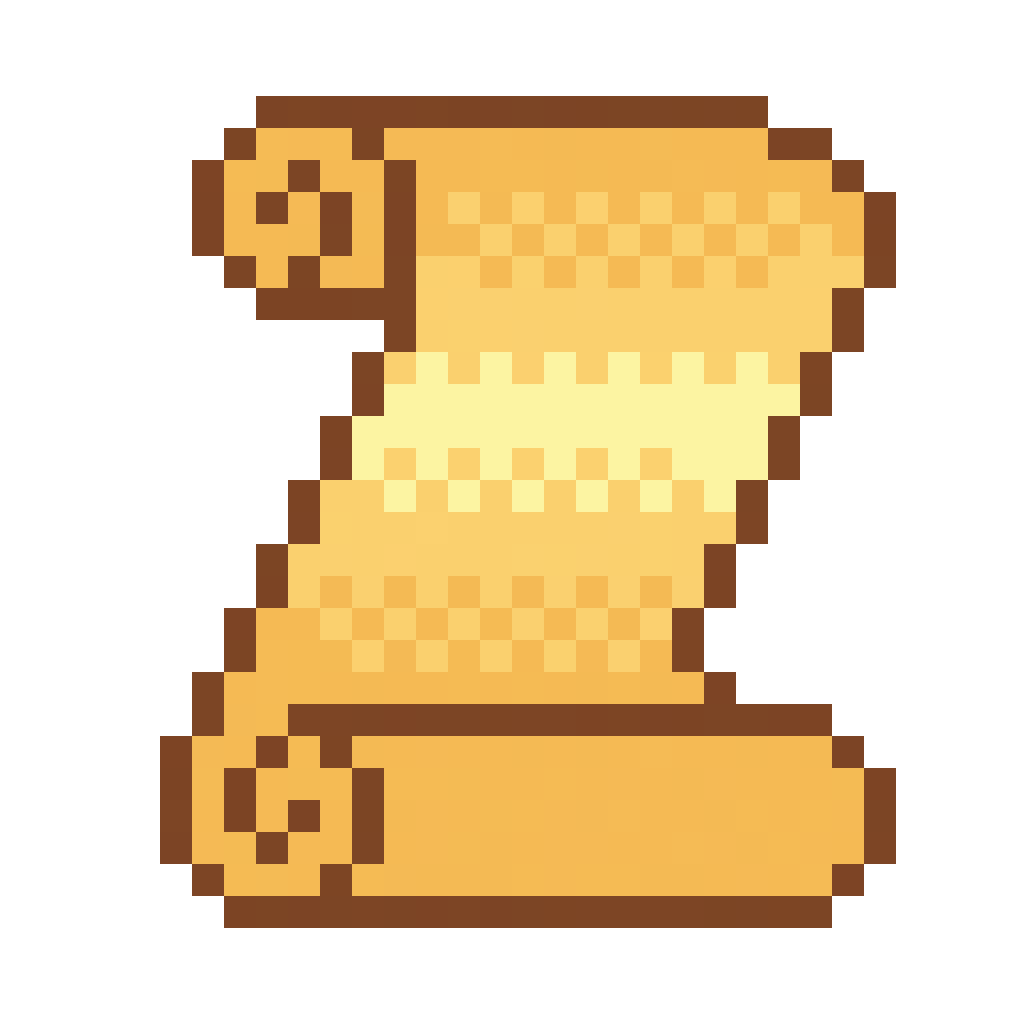
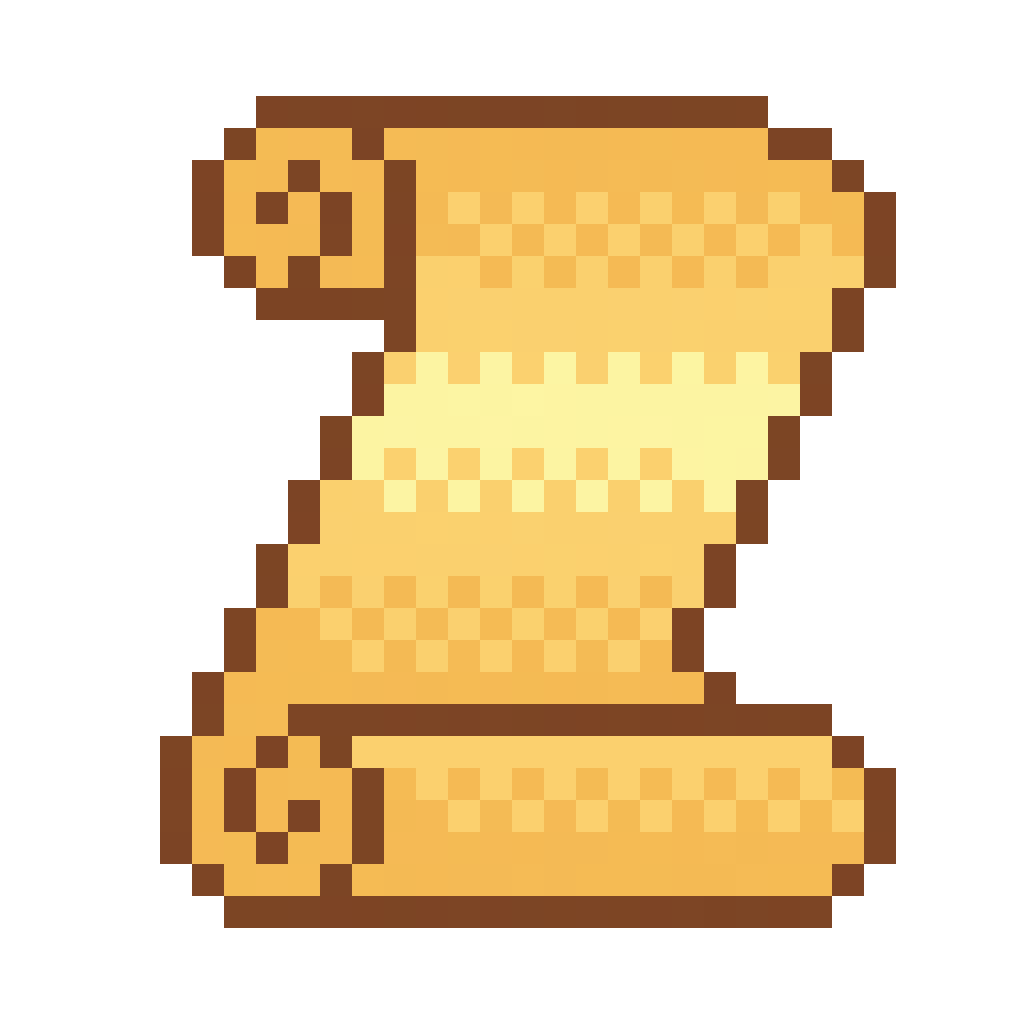
wiki

diff --git a/functions.js b/functions.js
@@ -19,7 +19,7 @@ class Characters{
                 document.getElementById("table").rows[this.y].cells[this.x].innerHTML = '<img alt="archer" src="images/archer.png" onclick="selectUnit('+this.name+')"/>';
                 break;
             case 3:
-                document.getElementById("table").rows[this.y].cells[this.x].innerHTML = '<img alt="knight" src="images/knight.png" onclick="selectUnit('+this.name+')"/>';
+                document.getElementById("table").rows[this.y].cells[this.x].innerHTML = '<img alt="knight" src="images/spearman.png" onclick="selectUnit('+this.name+')"/>';
                 break;
             case 4:
                 document.getElementById("table").rows[this.y].cells[this.x].innerHTML = '<img alt="enemy" src="images/enemyKnight.png"/>';
@@ -89,7 +89,10 @@ function cancelMovements(){
 }
 
 function right(pers){
-    if (pers.x < (X-1) && CharactersPosition[(pers.y*X) + pers.x + 1] == 0){
+    if (pers.x < (X-1) && (CharactersPosition[(pers.y*X) + pers.x + 1] == 0 || CharactersPosition[(pers.y*X) + pers.x + 1] == 8)){
+        var decrease = 2;
+        if(CharactersPosition[(pers.y*X) + pers.x + 1] == 8){ decrease = 4; }
+
         CharactersPosition[(pers.y*X) + pers.x + 1] = CharactersPosition[(pers.y*X) + pers.x];
         CharactersPosition[(pers.y*X) + pers.x] = 0;
 
@@ -100,14 +103,17 @@ function right(pers){
         document.getElementById("table").rows[pers.y].cells[pers.x].classList.add("selected");
         pers.display(pers);
 
-        stamina -= 2;
+        stamina -= decrease;
         document.getElementById('stamina').innerHTML = 'Stamina : <strong>' + stamina + '</strong>';
         loseStamina();
     }
 }
 
 function left(pers){
-    if (pers.x > 0 && CharactersPosition[(pers.y*X) + pers.x - 1] == 0){
+    if (pers.x > 0 && (CharactersPosition[(pers.y*X) + pers.x - 1] == 0 || CharactersPosition[(pers.y*X) + pers.x - 1] == 8)){
+        var decrease = 2;
+        if(CharactersPosition[(pers.y*X) + pers.x - 1] == 8){ decrease = 4; }
+
         CharactersPosition[(pers.y*X) + pers.x - 1] = CharactersPosition[(pers.y*X) + pers.x];
         CharactersPosition[(pers.y*X) + pers.x] = 0;
 
@@ -118,14 +124,17 @@ function left(pers){
         document.getElementById("table").rows[pers.y].cells[pers.x].classList.add("selected");
         pers.display(pers);
 
-        stamina -= 2;
+        stamina -= decrease;
         document.getElementById('stamina').innerHTML = 'Stamina : <strong>' + stamina + '</strong>';
         loseStamina();
     }
 } 
 
 function up(pers){
-    if (pers.y > 0 && CharactersPosition[(pers.y*X) + pers.x - X] == 0){
+    if (pers.y > 0 && (CharactersPosition[(pers.y*X) + pers.x - X] == 0 || CharactersPosition[(pers.y*X) + pers.x - X] == 8)){
+        var decrease = 2;
+        if(CharactersPosition[(pers.y*X) + pers.x - X] == 8){ decrease = 4; }
+
         CharactersPosition[(pers.y*X) + pers.x - X] = CharactersPosition[(pers.y*X) + pers.x];
         CharactersPosition[(pers.y*X) + pers.x] = 0;
 
@@ -136,14 +145,17 @@ function up(pers){
         document.getElementById("table").rows[pers.y].cells[pers.x].classList.add("selected");
         pers.display(pers);
 
-        stamina -= 2;
+        stamina -= decrease;
         document.getElementById('stamina').innerHTML = 'Stamina : <strong>' + stamina + '</strong>';
         loseStamina();
     }
 } 
 
 function down(pers){
-    if (pers.y < (Y-1) && CharactersPosition[(pers.y*X) + pers.x + X] == 0){
+    if (pers.y < (Y-1) && (CharactersPosition[(pers.y*X) + pers.x + X] == 0 || CharactersPosition[(pers.y*X) + pers.x + X] == 8)){
+        var decrease = 2;
+        if(CharactersPosition[(pers.y*X) + pers.x + X] == 8){ decrease = 4; }
+
         CharactersPosition[(pers.y*X) + pers.x + X] = CharactersPosition[(pers.y*X) + pers.x];
         CharactersPosition[(pers.y*X) + pers.x] = 0;
 
@@ -154,7 +166,7 @@ function down(pers){
         document.getElementById("table").rows[pers.y].cells[pers.x].classList.add("selected");
         pers.display(pers);
 
-        stamina -= 2;
+        stamina -= decrease;
         document.getElementById('stamina').innerHTML = 'Stamina : <strong>' + stamina + '</strong>';
         loseStamina();
     }

diff --git a/wiki.html b/wiki.html
@@ -27,37 +27,46 @@
     </header>
 
     <main>
+        <div class="top">
         <img src="images/parchment.png" alt="parchment" class="parchment">
         <section><ul>
             <li><strong><a href="#rules">Rules</a> </strong></li>
             <li><strong><a href="#characters">Characters</a></strong></li>
             <li><strong><a href="#enemies">Enemies</a></strong></li>
             <li><strong><a href="#obstacles">Obstacles</a></strong></li>
-            <li><strong><a href="#levels">Levels</a></strong></li>
         </ul></section>
+        </div>
         
         <h2 id="rules">Rules</h2>
-        <p>At the start of the game, you have a total of 30 points of Stamina. The aim of the game is to kill all the enemies. The difficulties are to defeat the opponents with limited moves and attacks. Also there are field obstacles that you can't cross.</p>
+        <p>The aim of the game is to kill all the enemies. The difficulties are to defeat the opponents with limited moves and attacks. Also there are field obstacles that you can't cross.</p>
+        <hr>
 
         <h2 id="characters">Characters</h2>
             <h3>Knight</h3>
-            <p>After he lost his childhood friend in a terrible battle to defend his kingdom, this bloodthirsty fighter promised to kill without mercy all this opposants.</p>
+            <img alt="knight" src="images/knight.png" class="unit">
+            <p class="italic">After he lost his childhood friend in a terrible battle to defend his kingdom, this bloodthirsty fighter promised to kill without mercy all this opposants.</p>
+            <p>The knight is stronger against the archer.</p>
             <h3>Archer</h3>
-            <p>Having grown up in the forest, he used to hunt animals with his bow to survey. After long years of hunt he became an exceptional shooter who can kill an enemy at the other side of the battlefield.</p>
+            <img alt="archer" src="images/archer.png" class="unit">
+            <p class="italic">Having grown up in the forest, he used to hunt animals with his bow to survey. After long years of hunt he became an exceptional shooter who can kill an enemy at the other side of the battlefield.</p>
+            <p>The archer is stronger against the spearman.</p>
             <h3>Spearman</h3>
-            <p>His spear belonged at his father and was his last gift before his death, the spearman promise to become the mightiest warrior with his father's spear.</p>
+            <img alt="spearman" src="images/spearman.png" class="unit">
+            <p class="italic">His spear belonged at his father and was his last gift before his death, the spearman promise to become the mightiest warrior with his father's spear.</p>
+            <p>The spearman is stronger against the knight.</p>
+        <hr>
         
         <h2 id="enemies">Enemies</h2>
-        <p>Static enemies will block your road to the goal and try to kill you if you walk near from them.</p>
+        <p>Kill all the enemies and win the battle !</p>
+        <hr>
 
         <h2 id="obstacles">Obstacles</h2>
-            <h3>Tree</h3>
-            <p>This big tree will become your worst enemy, moreover block your road, your archers can't shoot when they are behind</p>
+            <h3>Rock</h3>
+            <p class="italic">This big rock will become your worst enemy, we created it just to block you.</p>
+            <p>You can't move on a case with a rock.</p>
             <h3>Fence</h3>
-            <p>Their unique goal : waste your time</p>
-
-        <h2 id="levels">Levels</h2>
-        <p>There is 0 level available yet.</p>
+            <p class="italic">Their unique goal : waste your time</p>
+            <p>You can cross the fence, but you will need 4 points of stamina.</p>
     </main>
 
     <footer>

diff --git a/index.html b/index.html
@@ -30,7 +30,7 @@
         <p>Play to <strong>Web Battle Squad</strong>, a strategic battle game playable on browser.</p>
         <img alt="Web Brother Squad level 1" src="images/level1.png" class="jeu">
         <p>Control your army, and use the best strategy to win the game. Try to defeat your enemies in several levels, and conquer the world !</p>
-        <img alt="Web Brother Squad" src="images/level1.png" class="jeu">
+        <img alt="Web Brother Squad level 5" src="images/level5.png" class="jeu">
     </main>
 
     <footer>

diff --git a/styles/wiki.css b/styles/wiki.css
@@ -32,7 +32,7 @@ h1{
 
 h2{
     font-size: 2rem;
-    margin-top: 50px;
+    margin-top: 80px;
 }
 
 h3{
@@ -101,9 +101,24 @@ p{
     margin-left: 80px;
 }
 
+.top{
+    display: flex;
+    flex-direction: row;
+    justify-content: space-around;
+    align-items: center;
+}
+
+.italic{
+    font-size: 1.7rem;
+    font-style: italic;
+    color: gray;
+}
+
 .parchment{
-    float: left;
-    height: 290px;
-    width: 330px;
-    position: static;
+    width: 200px;
+}
+
+.unit{
+    width: 50px;
+    margin-left: 30px;
 }

diff --git a/play.php b/play.php
@@ -32,8 +32,15 @@
 
         // Global variables
         var selectedUnit = false;
-        var stamina = 30;
         var level = <?php echo $level;?>;
+        var stamina = 30;
+        if(level == 2){
+            stamina = 32;
+        } else if (level == 4){
+            stamina = 56;
+        } else if (level == 5){
+            stamina = 46;
+        }
 
         // Table with units position
         <?php
